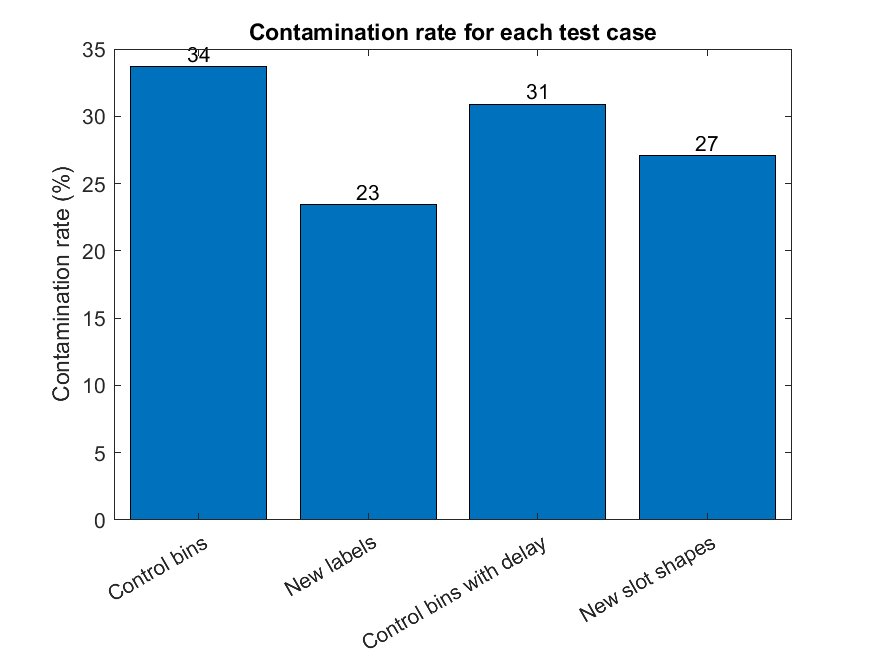
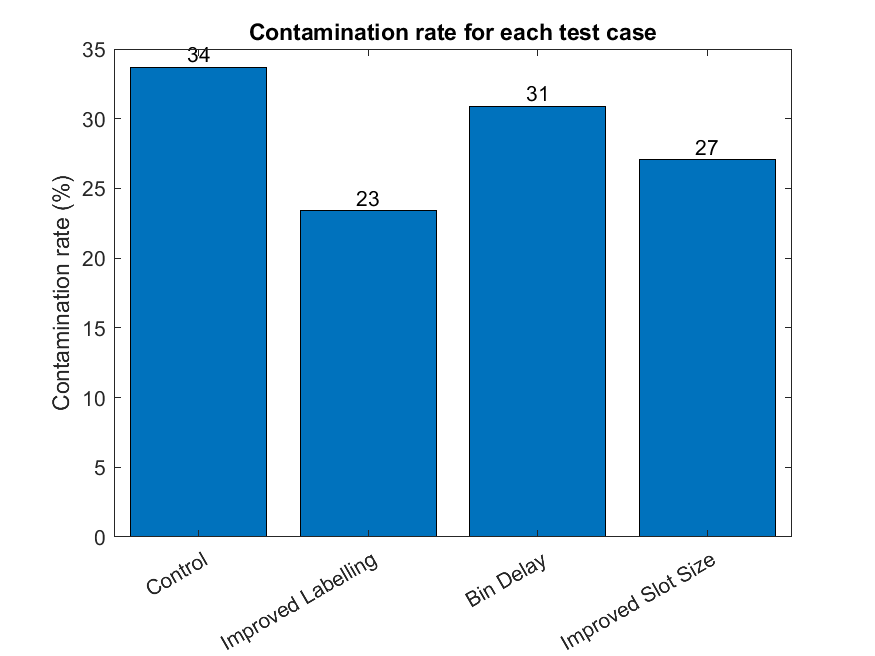
Rename x axis

diff --git a/analysis/main.m b/analysis/main.m
@@ -7,8 +7,8 @@ clear
 PATH = "C:\Users\machs\Documents\praxis_data\praxis-i-research.appspot.com\user\";
 CUT_OFF_TIME = 15000;
 
-categories = categorical({'Control bins', 'New labels', 'Control bins with delay', 'New slot shapes'});
-categories = reordercats(categories, {'Control bins', 'New labels', 'Control bins with delay', 'New slot shapes'});
+categories = categorical({'Control', 'Improved Labelling', 'Bin Delay', 'Improved Slot Size'});
+categories = reordercats(categories, {'Control', 'Improved Labelling', 'Bin Delay', 'Improved Slot Size'});
 
 
 data = get_users_data(PATH);
